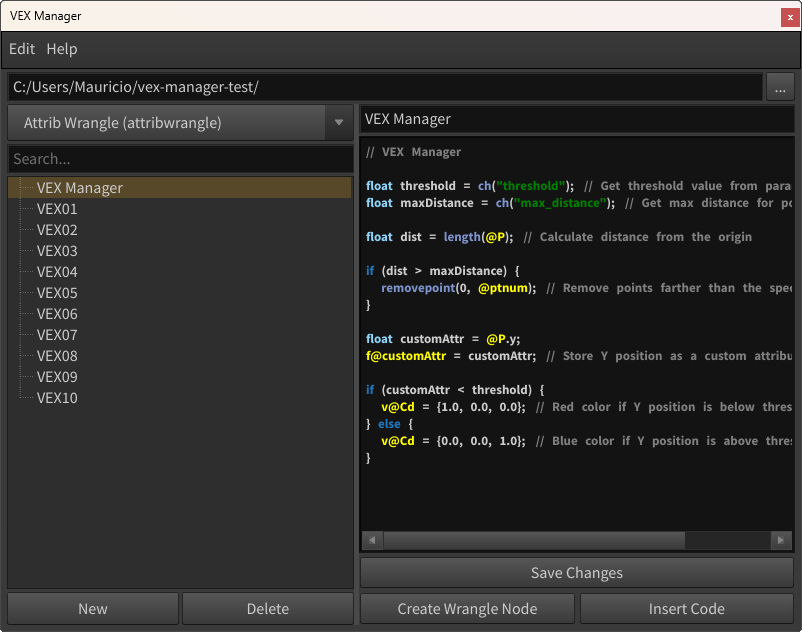
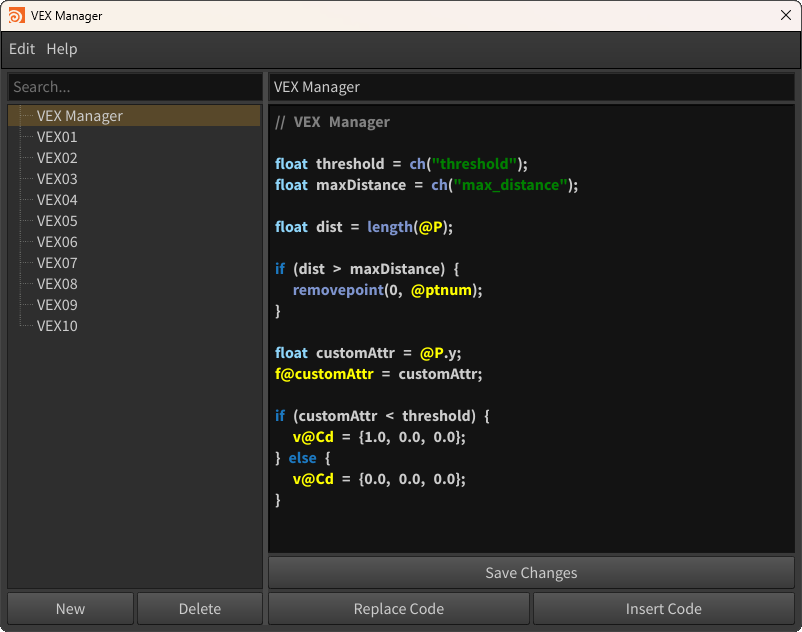
docs: update ui image and shelf button creation

diff --git a/README.md b/README.md
@@ -1,7 +1,7 @@
 # vex-manager
 VEX Manager is a tool for Houdini that saves, manages, and imports VEX code presets across projects.
 
-![Texture Connector](.github/vex_manager_ui.png)
+![VEX Manager](.github/vex_manager_ui.png)
 
 ## Table of Contents
 - [Installation](#installation)
@@ -25,15 +25,10 @@ VEX Manager is a tool for Houdini that saves, manages, and imports VEX code pres
 1. In the Houdini interface, go to the **Shelf** area
 2. **Right-click** on an empty space in the Shelf and select **New Tool...**
 3. In the **Edit tool** window, in the **Script** section, copy the following Python code
-    ```python 
-   from PySide2 import QtCore
-
-   import hou
-   
+    ```python  
    from vex_manager import VEXManagerUI
    
    vex_manager_ui = VEXManagerUI()
-   vex_manager_ui.setParent(hou.qt.mainWindow(), QtCore.Qt.Tool)
    vex_manager_ui.show()
     ```
 4. Click **Accept** to save the new button on the Shelf
